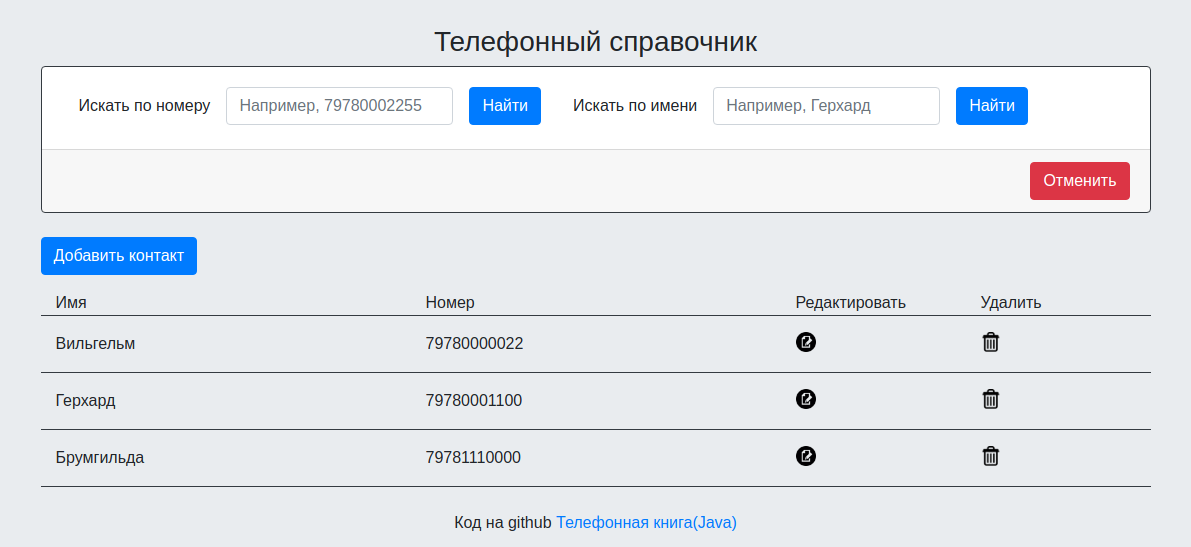
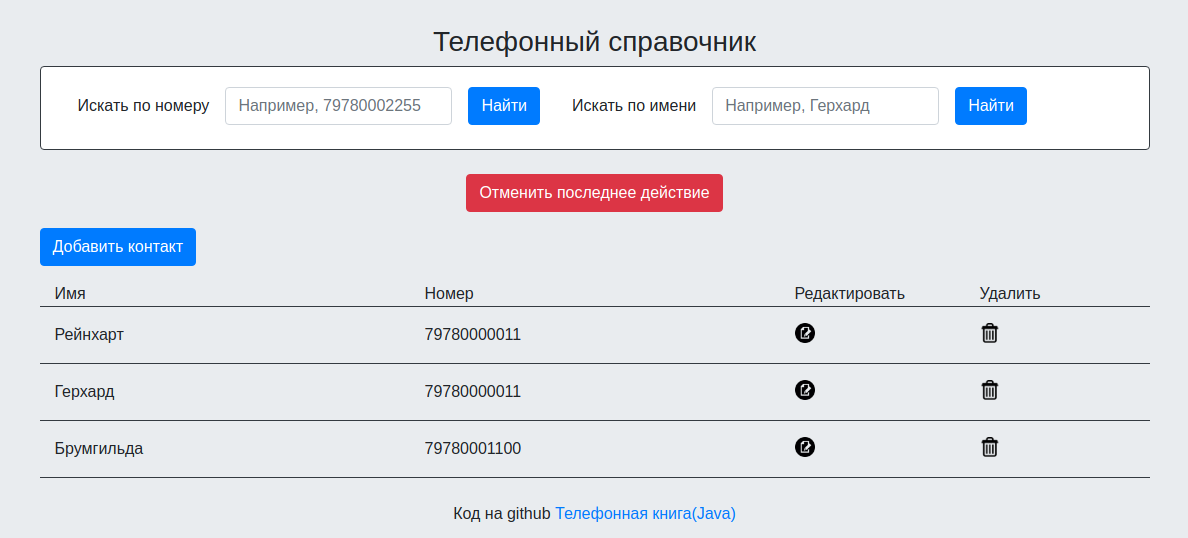
change html-interface - generalized button redo and move to center
replace 3 forms to 1 CreateData

diff --git a/sbt_stage/app/views/index.scala.html b/sbt_stage/app/views/index.scala.html
@@ -2,12 +2,11 @@
 @import play.api.data._
 @import play.api.mvc._
 
-@import controllers.SearchForm.SearchData
-@import controllers.CreateForm.CreateData
+@import services._
 
 @(  contacts: Seq[Contact],
-    createForm: Form[CreateData],
-    searchForm: Form[SearchData],
+    createForm: Form[ContactData],
+    searchForm: Form[ContactData],
     createFunc: Call
 )(implicit request: MessagesRequestHeader)
 
@@ -49,19 +48,21 @@
 
                 </div>
             </div>
-            <div class="card-footer text-right">
-                <button class="btn btn-danger" onclick="window.history.back()">
-                    Отменить
-                </button>
-            </div>
+
         </div>
         </section>
 
-        <button class="btn btn-primary addContact">
-            Добавить контакт
-        </button>
+        <div class="text-center pb-3">
+            <button class="btn btn-danger" onclick="window.history.back()">
+                Отменить последнее действие
+            </button>
+        </div>
+
 
         <section>
+            <button class="btn btn-primary addContact">
+                Добавить контакт
+            </button>
             <div id="contactsList" class="container pt-3 ">
                 <div class="row border-bottom border-dark">
                     <div class="col-4 ">Имя</div>
